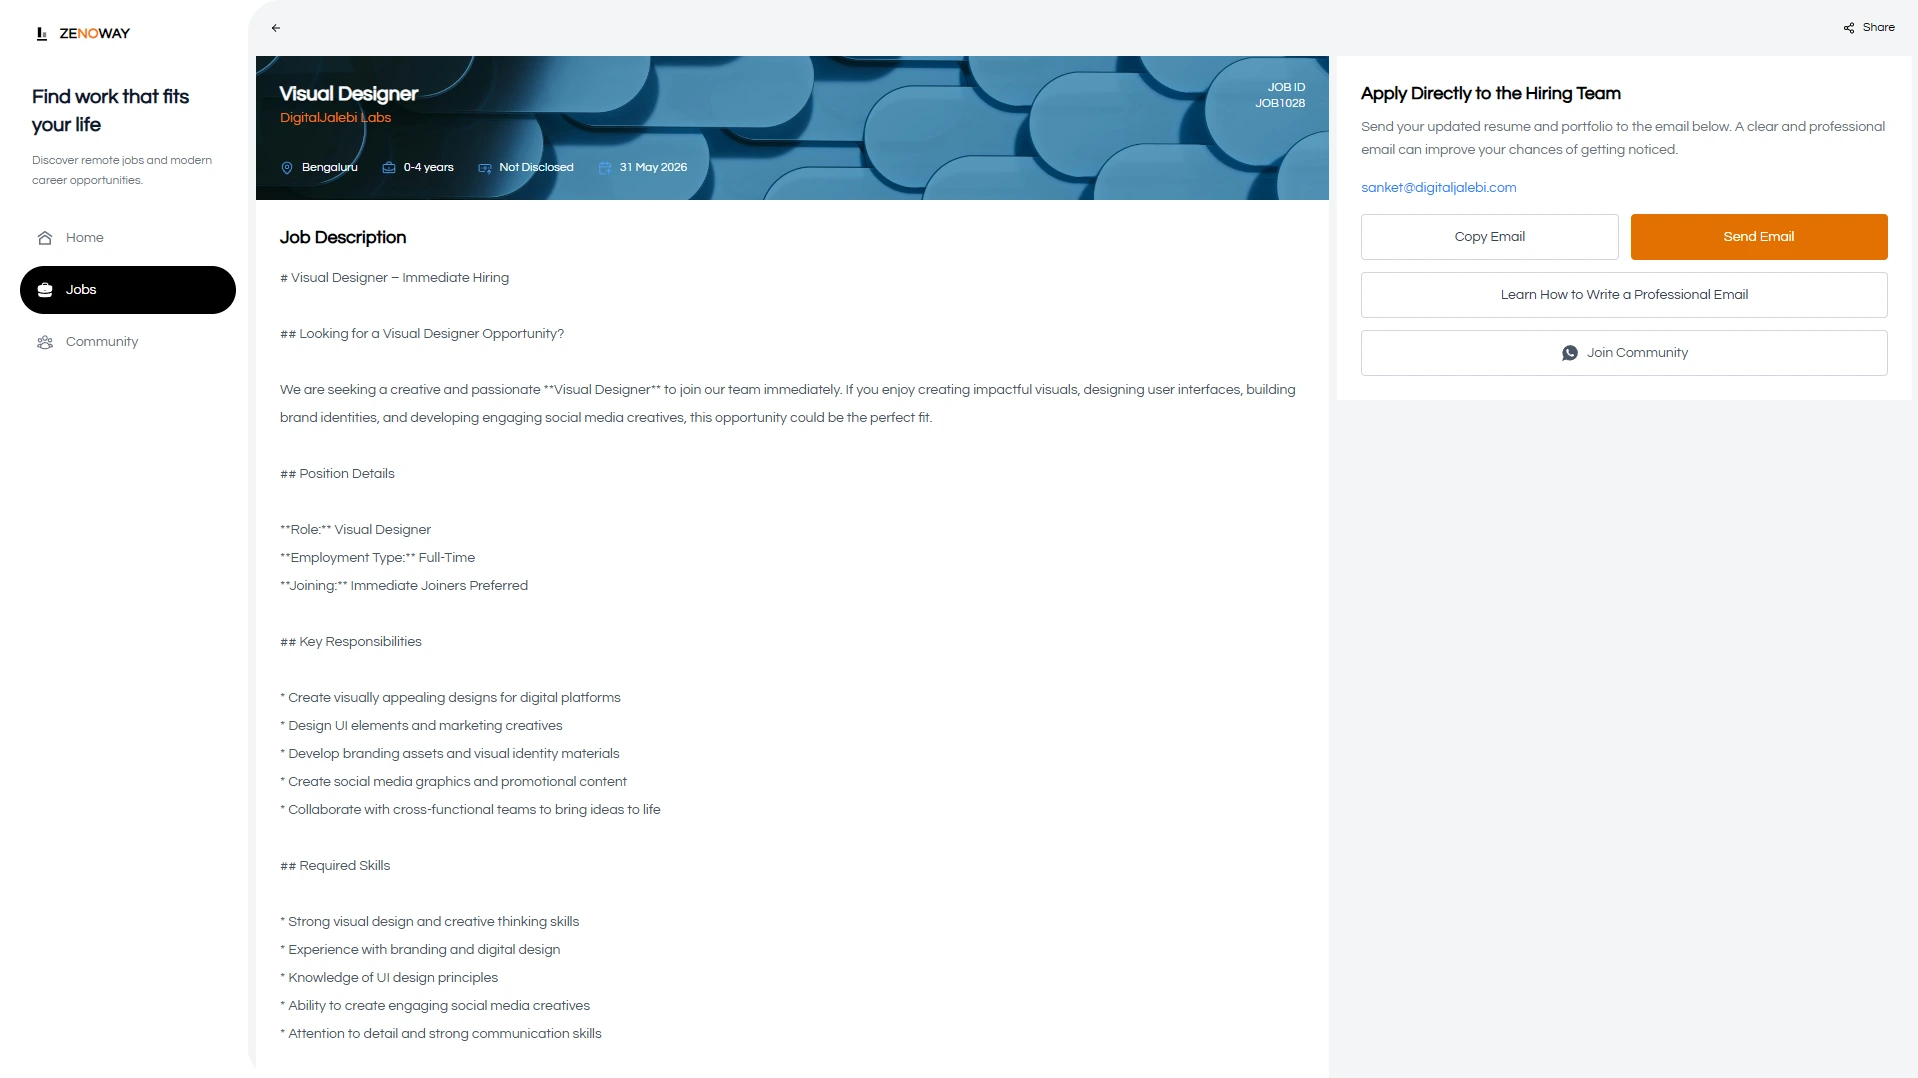
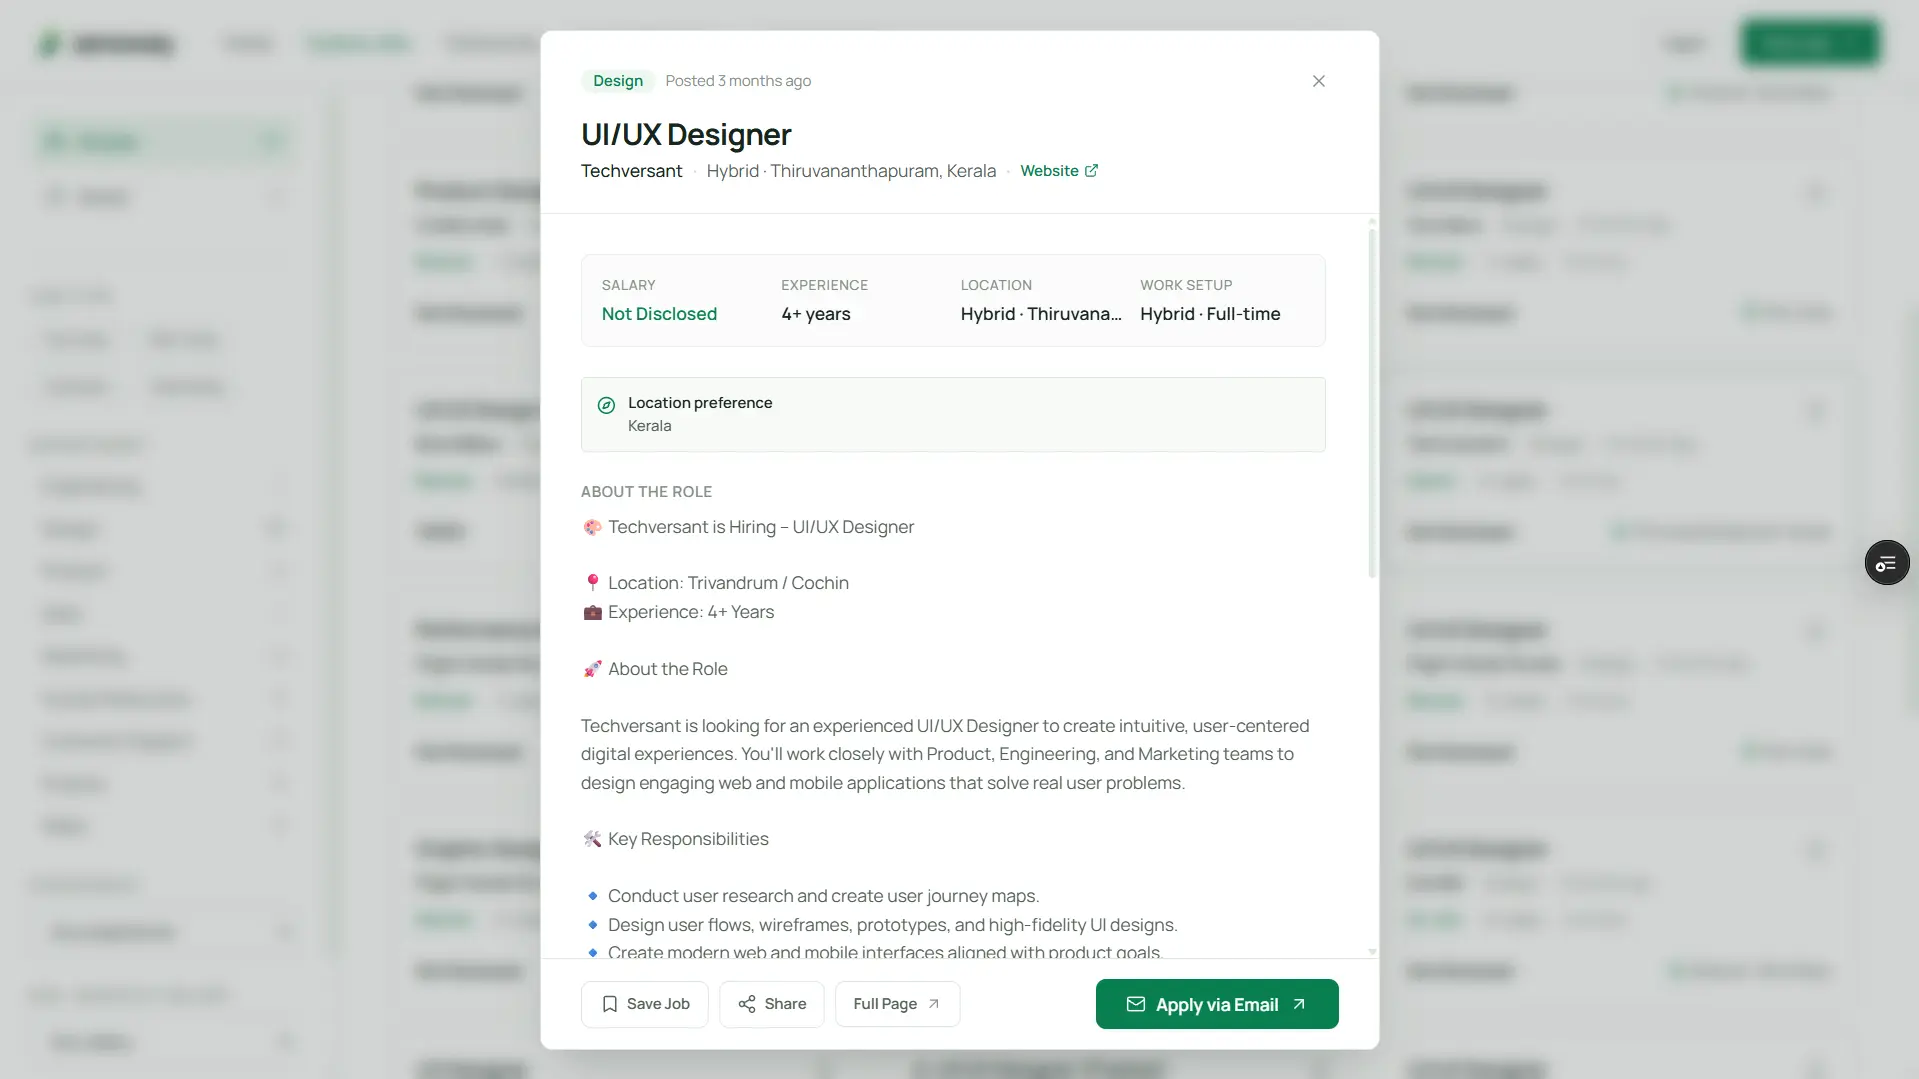
add Zenoway career platform case study page and assets

diff --git a/src/app/(site)/projects/zenoway/page.tsx b/src/app/(site)/projects/zenoway/page.tsx
@@ -28,17 +28,7 @@ export default function ZenowayCaseStudy() {
       {/* ---------------- SECTION A: SPLIT HERO WITH SOFT MINT SURFACE & LIVE PREVIEW ---------------- */}
       <section className="pt-24 sm:pt-28 md:pt-36 pb-16 md:pb-24 bg-gradient-to-b from-[#EDF7F1] via-[#F3F8F5] to-white border-b border-[#E2EBE5]">
         <div className="max-w-6xl mx-auto px-6">
-          {/* Back to Projects link */}
-          <Link
-            href="/projects"
-            className="inline-flex items-center gap-1.5 text-xs font-medium text-[#52605B] hover:text-[#087F50] transition-colors mb-8 group focus:outline-none focus-visible:ring-2 focus-visible:ring-[#087F50] rounded"
-          >
-            <ArrowLeft
-              size={14}
-              className="transition-transform group-hover:-translate-x-0.5"
-            />
-            <span>Back to Projects</span>
-          </Link>
+
 
           <div className="grid lg:grid-cols-12 gap-10 lg:gap-12 items-center">
             {/* Left Column: Editorial Content */}
@@ -161,6 +151,7 @@ export default function ZenowayCaseStudy() {
                         fill
                         sizes="(max-width: 1024px) 100vw, 560px"
                         className="object-cover"
+                        unoptimized
                       />
                     </div>
                   </div>
@@ -430,6 +421,7 @@ export default function ZenowayCaseStudy() {
                       sizes="(max-width: 1024px) 100vw, 680px"
                       className="object-cover"
                       loading="lazy"
+                      unoptimized
                     />
                   </div>
                   <figcaption className="px-4 py-3 border-t border-[#E5E7EB] bg-[#F7FAF8] text-xs text-[#52605B] flex justify-between items-center">
@@ -452,6 +444,7 @@ export default function ZenowayCaseStudy() {
                       sizes="(max-width: 1024px) 100vw, 680px"
                       className="object-cover"
                       loading="lazy"
+                      unoptimized
                     />
                   </div>
                   <figcaption className="px-4 py-3 border-t border-[#E5E7EB] bg-[#F7FAF8] text-xs text-[#52605B] flex justify-between items-center">
@@ -511,6 +504,7 @@ export default function ZenowayCaseStudy() {
                       sizes="(max-width: 1024px) 100vw, 680px"
                       className="object-cover"
                       loading="lazy"
+                      unoptimized
                     />
                   </div>
                   <figcaption className="px-4 py-3 border-t border-[#E5E7EB] bg-[#F7FAF8] text-xs text-[#52605B] flex justify-between items-center">
